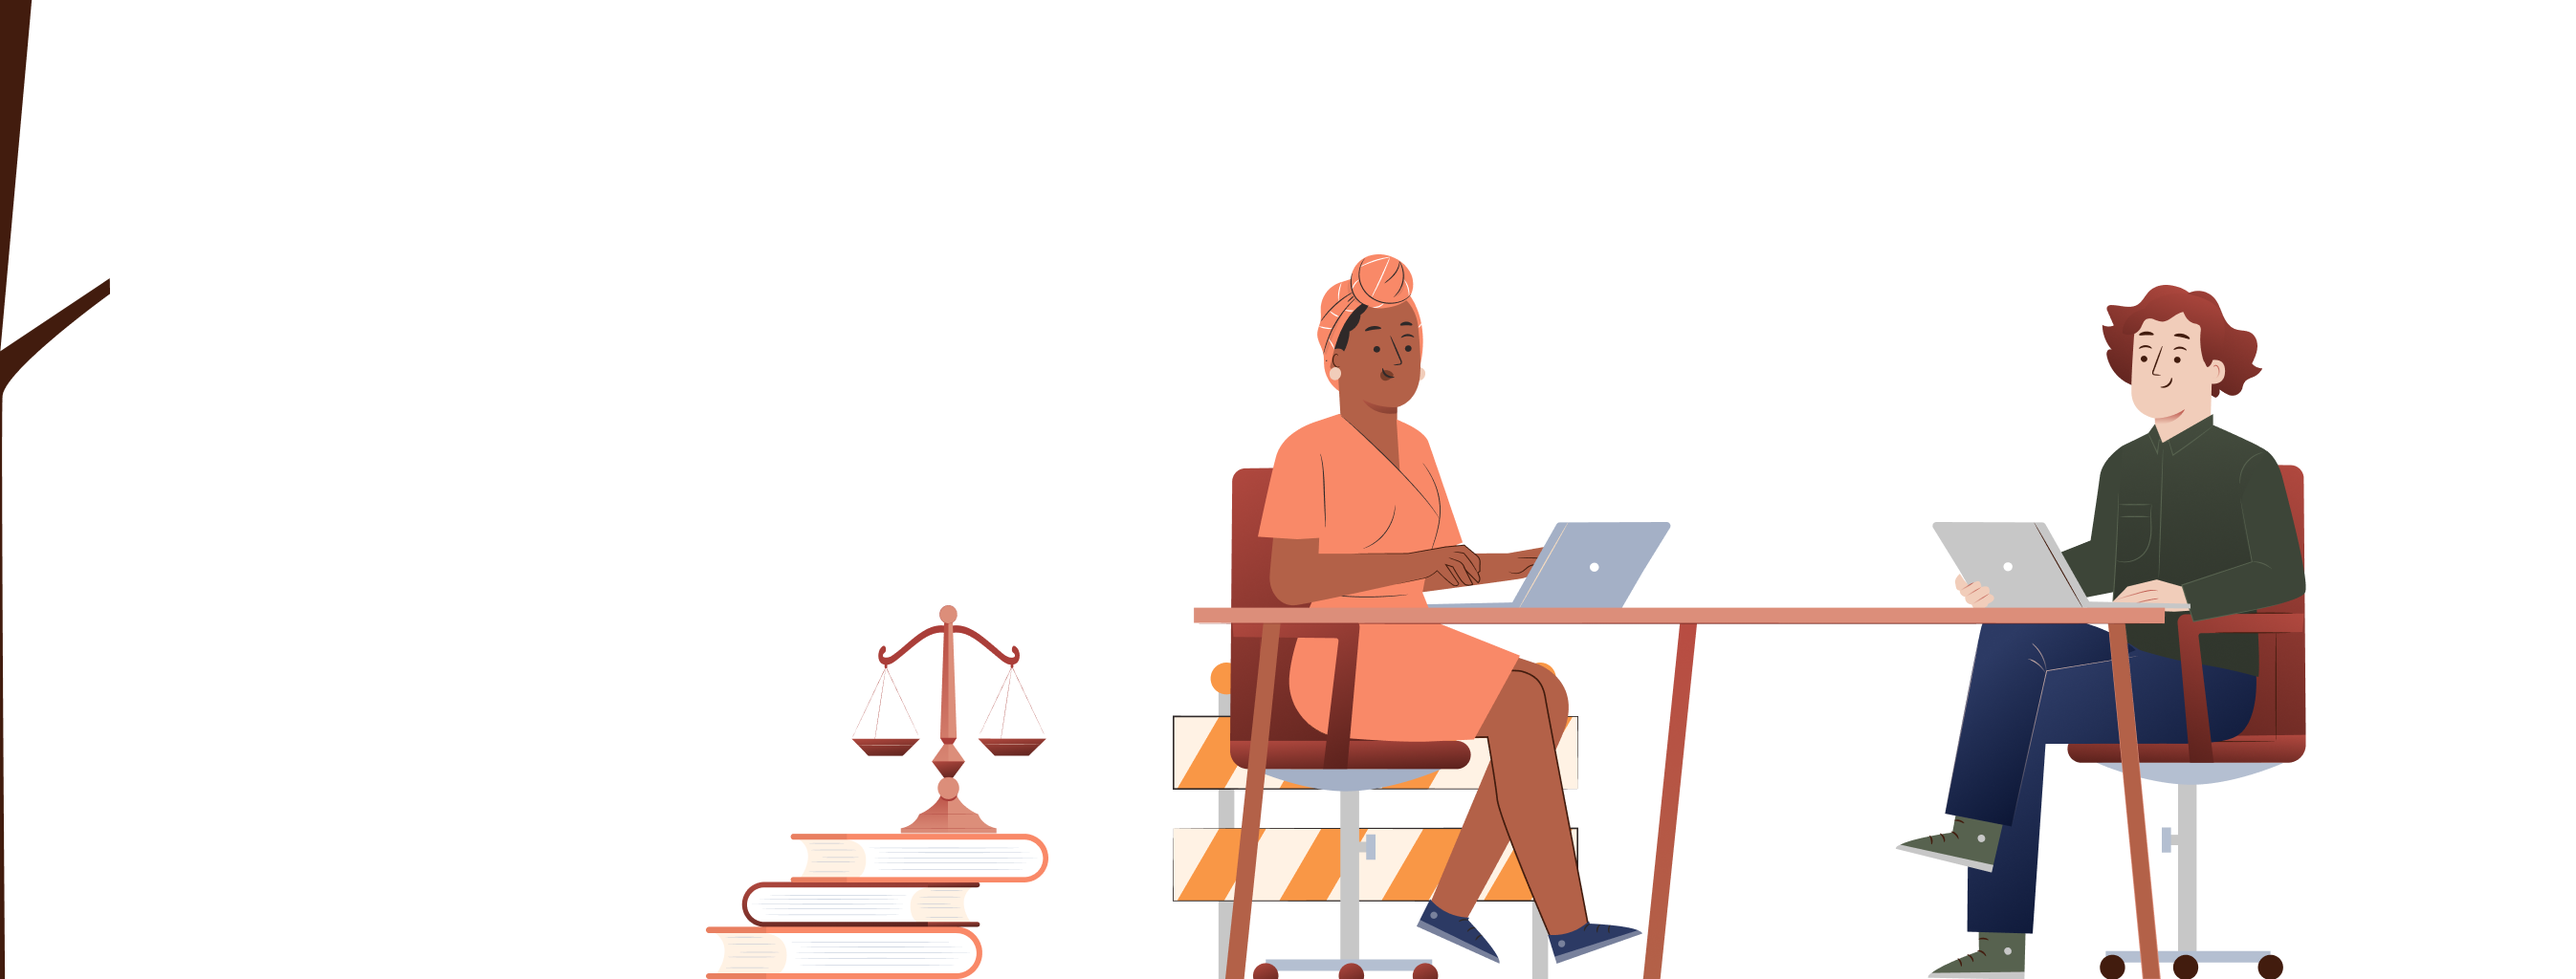
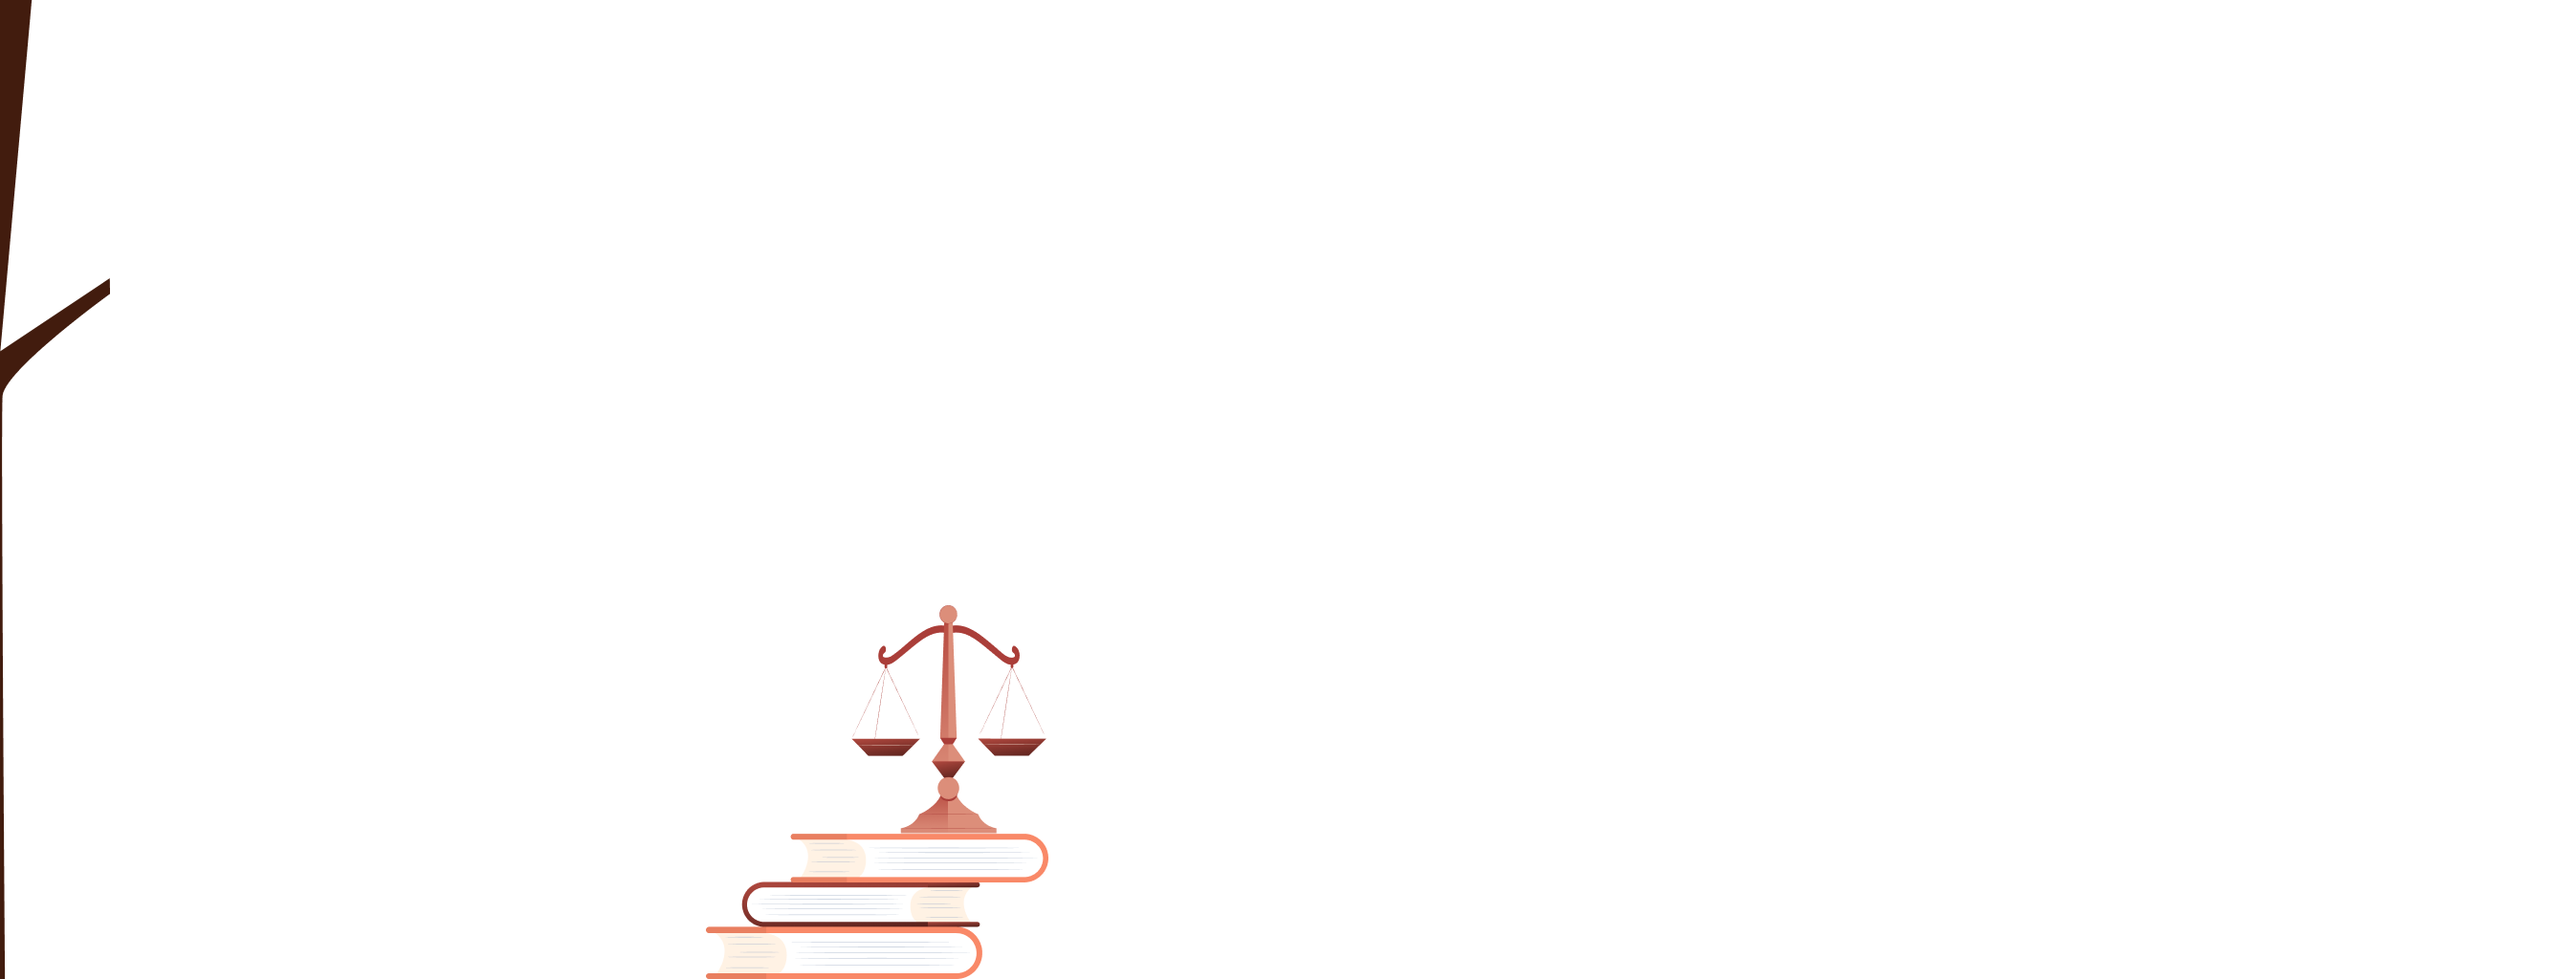
Scene 5 women no animation

Changed region(s): [[0.4367, 0.25, 0.9046, 1.0]]

diff --git a/components/Chapter5.vue b/components/Chapter5.vue
@@ -18,6 +18,10 @@
         <div class="b--chapter5-a__content b--chapter5-a__content--second">
            <v-info-chapter :info="chapter"/>
         </div>
+        <!-- women -->
+        <div class="b--chapter5-a__media">
+            <img v-lazy="require(`@/assets/img/chapter-5/women.svg`)" alt="women" />
+        </div>
       </div>
       <div class="b--ss-a__bg-items">
         <img

diff --git a/sass/framework/components/chapter/b--chapter5-a.scss b/sass/framework/components/chapter/b--chapter5-a.scss
@@ -38,4 +38,11 @@
       }
     }
   }
+  // women
+  &__media {
+    position: absolute;
+    left: 46.47%;
+    bottom: -1.9%;
+    width: 43%;
+  }  
 }
